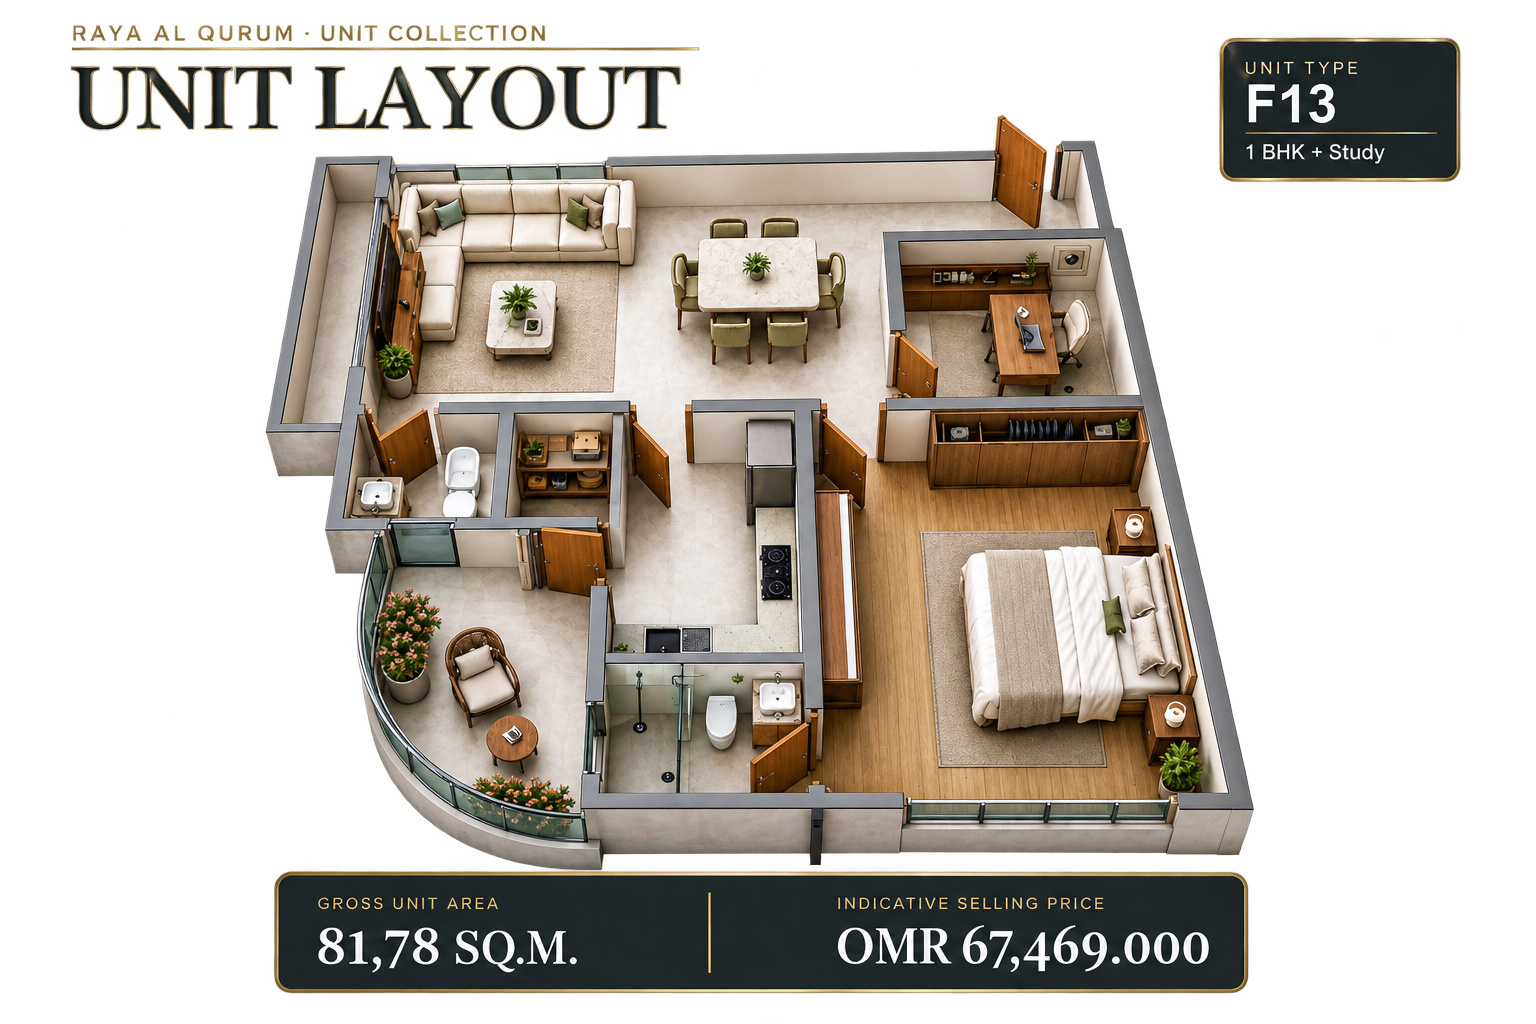
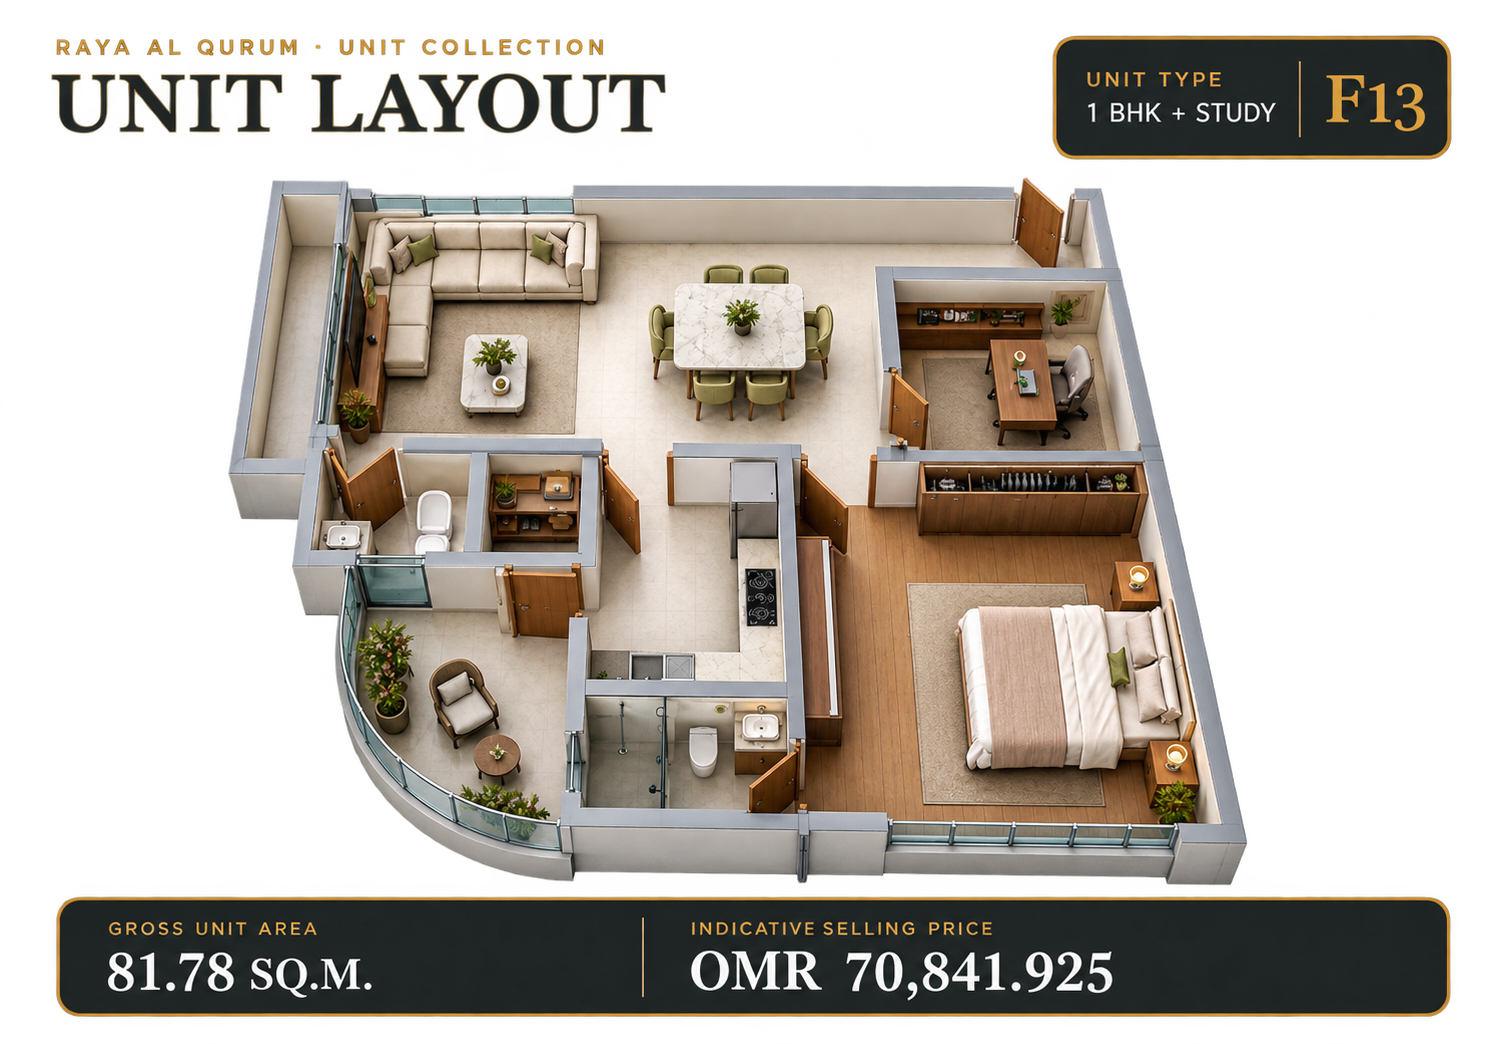
Update residence layouts and add F13 details

diff --git a/src/components/Residences.jsx b/src/components/Residences.jsx
@@ -280,6 +280,19 @@ function ResidenceDetails({ residence, onClose }) {
   >
     F12
   </button>
+
+  <button
+    onClick={() =>
+      document
+        .getElementById("f13-detail")
+        ?.scrollIntoView({ behavior: "smooth", block: "start" })
+    }
+  >
+    F13
+  </button>
+
+
+  
 </div>
 
         {/* =====================================================
@@ -338,6 +351,7 @@ function ResidenceDetails({ residence, onClose }) {
     <span>BATHROOM</span>
     <strong>1</strong>
   </div>
+  
 
   <div className="unit-row-price">
     <span>FROM</span>
@@ -367,7 +381,7 @@ function ResidenceDetails({ residence, onClose }) {
 
           <div className="unit-row-detail">
             <span>AREA</span>
-            <strong>65.02 SQ.M.</strong>
+            <strong>69.45 SQ.M.</strong>
           </div>
 
           <div className="unit-row-detail">
@@ -382,7 +396,7 @@ function ResidenceDetails({ residence, onClose }) {
 
           <div className="unit-row-price">
             <span>FROM</span>
-            <strong>OMR —</strong>
+            <strong>OMR 57,426.470</strong>
           </div>
 
           <div className="unit-row-arrow">↗</div>
@@ -409,7 +423,7 @@ function ResidenceDetails({ residence, onClose }) {
 
           <div className="unit-row-detail">
             <span>AREA</span>
-            <strong>— SQ.M.</strong>
+            <strong>70.73 SQ.M.</strong>
           </div>
 
           <div className="unit-row-detail">
@@ -424,7 +438,7 @@ function ResidenceDetails({ residence, onClose }) {
 
           <div className="unit-row-price">
             <span>FROM</span>
-            <strong>OMR —</strong>
+            <strong>OMR 58,484.869</strong>
           </div>
 
           <div className="unit-row-arrow">↗</div>
@@ -451,7 +465,7 @@ function ResidenceDetails({ residence, onClose }) {
 
           <div className="unit-row-detail">
             <span>AREA</span>
-            <strong>— SQ.M.</strong>
+            <strong>69.80 SQ.M.</strong>
           </div>
 
           <div className="unit-row-detail">
@@ -466,7 +480,7 @@ function ResidenceDetails({ residence, onClose }) {
 
           <div className="unit-row-price">
             <span>FROM</span>
-            <strong>OMR —</strong>
+            <strong>OMR 57,715.875</strong>
           </div>
 
           <div className="unit-row-arrow">↗</div>
@@ -493,7 +507,7 @@ function ResidenceDetails({ residence, onClose }) {
 
           <div className="unit-row-detail">
             <span>AREA</span>
-            <strong>— SQ.M.</strong>
+            <strong>86.85 SQ.M.</strong>
           </div>
 
           <div className="unit-row-detail">
@@ -508,7 +522,49 @@ function ResidenceDetails({ residence, onClose }) {
 
           <div className="unit-row-price">
             <span>FROM</span>
-            <strong>OMR —</strong>
+            <strong>OMR 71,814.094</strong>
+          </div>
+
+          <div className="unit-row-arrow">↗</div>
+        </button>
+
+        
+        {/* F13 */}
+        <button
+          type="button"
+          className="one-bhk-unit-row"
+          onClick={() =>
+            document.getElementById("f13-detail")?.scrollIntoView({
+              behavior: "smooth",
+              block: "start",
+            })
+          }
+        >
+          <div className="unit-row-number">05</div>
+
+          <div className="unit-row-main">
+            <span>1 BHK</span>
+            <strong>F13</strong>
+          </div>
+
+          <div className="unit-row-detail">
+            <span>AREA</span>
+            <strong>81.78 SQ.M.</strong>
+          </div>
+
+          <div className="unit-row-detail">
+            <span>BEDROOM</span>
+            <strong>1</strong>
+          </div>
+
+          <div className="unit-row-detail">
+            <span>BATHROOM</span>
+            <strong>1</strong>
+          </div>
+
+          <div className="unit-row-price">
+            <span>FROM</span>
+            <strong>OMR 70,841.925</strong>
           </div>
 
           <div className="unit-row-arrow">↗</div>

diff --git a/src/components/F13-1BHK-Study.jsx b/src/components/F13-1BHK-Study.jsx
@@ -55,9 +55,8 @@ export default function F13OneBHK() {
       "/images/Residences/F13-1BHK-study-layout-details.png",
   };
 
-  return (
-    <section className="f6-one-bhk">
-
+return (
+  <section id="f13-detail" className="f6-one-bhk">
       {/* =====================================================
           F13 · HEADER
       ===================================================== */}
